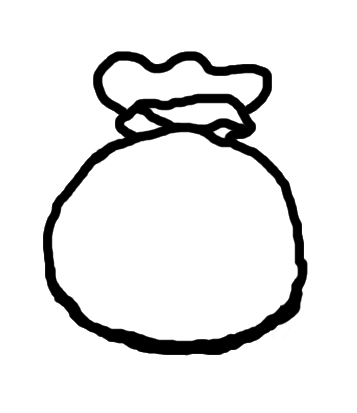
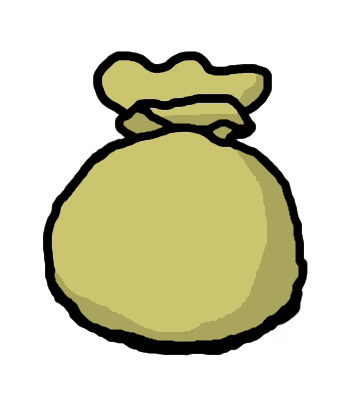
add some styling and colors

diff --git a/index.html b/index.html
@@ -11,12 +11,16 @@
 </head>
 
 <body>
-    <h1 class="title">💰 Centipede Game - Visualization! 🐛</h1>
+    <div class="title" style="justify-content: center;">
+        <img class="logo logo-centipede" src="./img/centipede_icon.png">
+        <h1>Centipede Game</h1>
+        <img class="logo logo-bag" src="./img/money_bag.png">
+    </div>
     <div id="main">
         <div>
             <p>This is a Visualization of the Centipede Game in Game Theory. There are two players switching turns and
                 by
-                continuing they increase the payoff but also the chance the other player quits getting a better payoff.
+                continuing they increase the payoff but also the chance the other player quits for getting a better payoff.
             </p>
             <p>Based on Backwards Induction the best play for the first player is to quit on the first round, if they
                 expects, the game won't continue till the end.</p>

diff --git a/centipede_game_with_graph.html b/centipede_game_with_graph.html
@@ -16,7 +16,11 @@
             <canvas id="centipede_graph" width="300" height="1100"></canvas>
         </div>
         <div id="main">
-            <h1 class="title">💰 Centipede Game - Visualization! 🐛</h1>
+            <div class="title">
+                <img class="logo logo-centipede" src="./img/centipede_icon.png">
+                <h1>Centipede Game</h1>
+                <img class="logo logo-bag" src="./img/money_bag.png">
+            </div>
             <p id="round">Round: <short><short id="round_value">0</short>/15</short></p>
             <p class="player_turn">Player Turn: <short id="player_turn"></short></p>
             <div class="game_center">

diff --git a/stylesheet.css b/stylesheet.css
@@ -19,6 +19,22 @@ body {
     grid-column: 2;
     grid-row: 1;
     margin: 0em;
+    display: flex;
+    border-bottom: 10px double black;
+    align-items: center;
+}
+
+.title > .logo, .title > h1{
+    padding: 0em 1em;
+}
+
+.logo {
+    max-width: 4.5em;
+    max-height: 4.5em;
+}
+
+.logo-bag {
+    margin-top: 2%;
 }
 
 .button {
